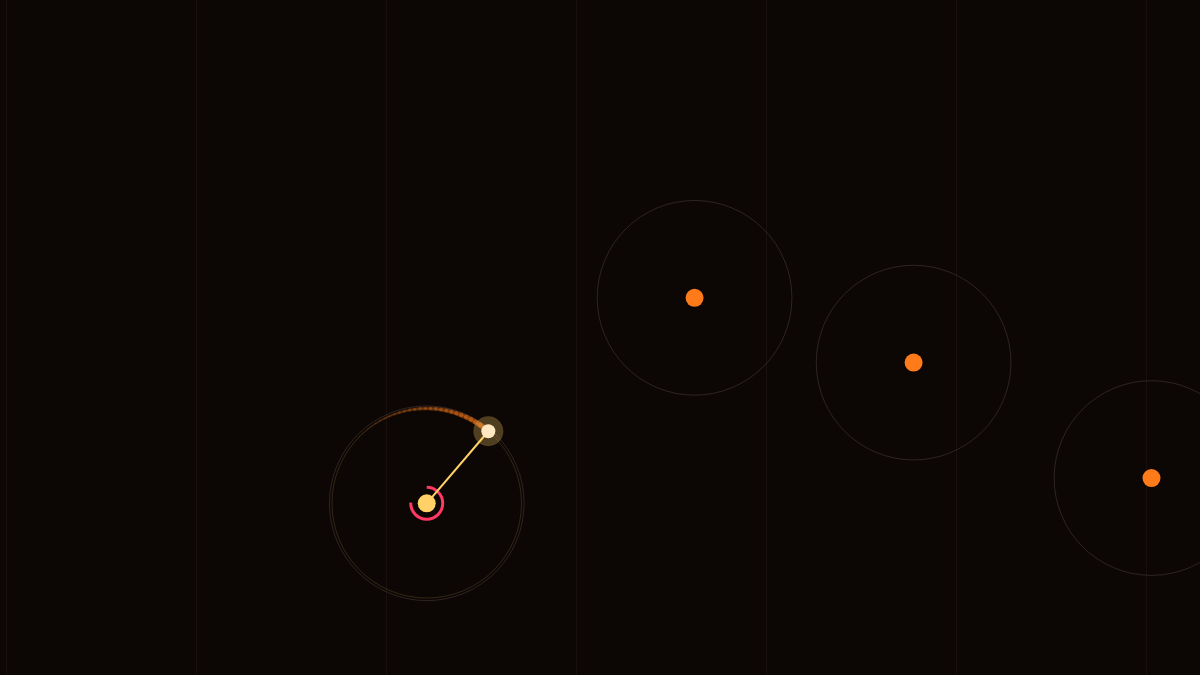
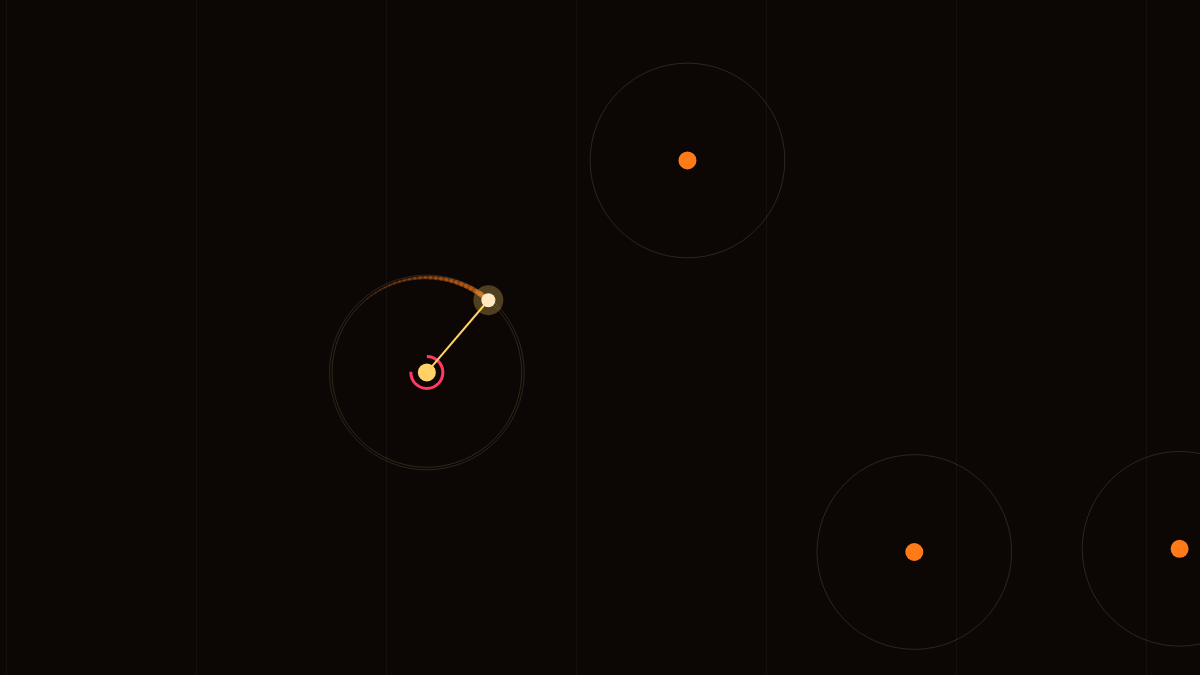
Fix seven bugs found reviewing the new games
A high-effort review of the diff turned up six real defects; fixing one of
them exposed a seventh, which the tightened test caught immediately.

- Nocturne spawned rings only LEAD (0.25s) before they landed but drew them
  against TRAVEL (1.9s), so they appeared ~88px from the target circle with a
  quarter-second of warning against a +/-0.125s hit window. Ring spawning is now
  a separate concern from note scheduling: rings exist for the whole travel
  window, and each schedules its own note LEAD ahead.
- Nocturne caught up on wall-clock time unbounded in a single frame, so a
  backgrounded tab returned to ~40 past-due rings at once, firing 40 oscillators
  and draining all three lives before a frame was drawn. It now re-anchors
  rather than catching up, with a visibilitychange handler doing the same.
- Fixing that exposed a negative canvas radius: step() only judges and culls
  rings while playing, so after a game over a leftover ring aged indefinitely
  while draw() kept shrinking it, and arc() throws on a negative radius.
- `elRules.hidden = true` was a no-op in all five new games — the author rule
  `.rules { display: flex }` outranks the UA `[hidden]` rule, so the game-over
  card showed the rules and the final score at once. `.gate[hidden]` and
  `.final[hidden]` were already worked around; `.rules[hidden]` was not.
- Refract saved progress one level behind on alternate clears: `index + 1 > best`
[…]

diff --git a/games-src/nocturne.html b/games-src/nocturne.html
@@ -197,6 +197,8 @@
     color: rgba(246, 240, 255, 0.76);
   }
 
+  .rules[hidden] { display: none; }
+
   .rules b { color: var(--pearl); font-weight: 700; }
 
   .dot {
@@ -448,6 +450,15 @@
     btnMute.setAttribute("aria-pressed", String(soundOn));
   });
 
+  // Coming back to a hidden tab should resume cleanly rather than resolve a
+  // backlog of beats the player never saw.
+  document.addEventListener("visibilitychange", function () {
+    if (document.hidden || state !== "play") return;
+    var now = clock();
+    rings = rings.filter(function (r) { return r.at > now; });
+    if (nextBeat < now) nextBeat = now + 1.0;
+  });
+
   /* ---------- sizing ---------- */
   function resize() {
     dpr = Math.min(window.devicePixelRatio || 1, 2);
@@ -518,13 +529,33 @@
     say("Over. Score " + score + ", best combo " + bestCombo + ".");
   }
 
+  // Rings must exist for the whole TRAVEL window, otherwise they appear a few
+  // pixels from the target circle and there is nothing to read. Their sound is a
+  // separate concern: it is scheduled only LEAD ahead, close to when it plays.
   function schedule() {
     var now = clock();
-    while (nextBeat < now + LEAD) {
-      rings.push({ at: nextBeat, hit: false, judged: false });
-      tickSound(nextBeat, beatIndex % 8, beatIndex % 4 === 0);
+
+    // A backgrounded tab keeps the clock running while rAF is stopped, so on
+    // return every missed beat would spawn at once — a wall of rings and
+    // oscillators that empties the lives bar before a frame is drawn. Re-anchor
+    // instead of catching up.
+    if (now - nextBeat > TRAVEL) {
+      nextBeat = now + 1.0;
+      rings = rings.filter(function (r) { return r.at > now; });
+    }
+
+    while (nextBeat < now + TRAVEL) {
+      rings.push({ at: nextBeat, hit: false, judged: false, sounded: false, step: beatIndex % 8, strong: beatIndex % 4 === 0 });
       beatIndex++;
       nextBeat += interval();
+    }
+
+    for (var i = 0; i < rings.length; i++) {
+      var r = rings[i];
+      if (!r.sounded && r.at - now <= LEAD) {
+        r.sounded = true;
+        tickSound(r.at, r.step, r.strong);
+      }
     }
   }
 
@@ -679,12 +710,17 @@
             : "rgba(246, 240, 255, " + (fade * 0.22).toFixed(3) + ")";
           ctx.lineWidth = r.hit ? 3 : 2;
           ctx.beginPath();
-          ctx.arc(cx, cy, targetR * (r.hit ? 1 - fade * 0.35 : 1 + (1 - fade) * 0.12), 0, Math.PI * 2);
+          ctx.arc(cx, cy, Math.max(0, targetR * (r.hit ? 1 - fade * 0.35 : 1 + (1 - fade) * 0.12)), 0, Math.PI * 2);
           ctx.stroke();
           continue;
         }
 
-        var rad = targetR + (1 - progress) * Math.max(W, H) * 0.52;
+        // Once the run ends, step() stops judging and culling rings, so a
+        // leftover ring keeps ageing while draw() runs. Its radius would go
+        // negative and canvas arc() throws. Drop anything past the hit window
+        // and clamp what remains.
+        if (remain < -GOOD) continue;
+        var rad = Math.max(0, targetR + (1 - progress) * Math.max(W, H) * 0.52);
         var near = Math.max(0, 1 - Math.abs(remain) / 0.5);
         ctx.strokeStyle = "rgba(255, 59, 107, " + (0.28 + near * 0.62).toFixed(3) + ")";
         ctx.lineWidth = 2 + near * 3;

diff --git a/public/games/nocturne/index.html b/public/games/nocturne/index.html
@@ -218,6 +218,8 @@
     color: rgba(246, 240, 255, 0.76);
   }
 
+  .rules[hidden] { display: none; }
+
   .rules b { color: var(--pearl); font-weight: 700; }
 
   .dot {
@@ -492,6 +494,15 @@
     btnMute.setAttribute("aria-pressed", String(soundOn));
   });
 
+  // Coming back to a hidden tab should resume cleanly rather than resolve a
+  // backlog of beats the player never saw.
+  document.addEventListener("visibilitychange", function () {
+    if (document.hidden || state !== "play") return;
+    var now = clock();
+    rings = rings.filter(function (r) { return r.at > now; });
+    if (nextBeat < now) nextBeat = now + 1.0;
+  });
+
   /* ---------- sizing ---------- */
   function resize() {
     dpr = Math.min(window.devicePixelRatio || 1, 2);
@@ -562,13 +573,33 @@
     say("Over. Score " + score + ", best combo " + bestCombo + ".");
   }
 
+  // Rings must exist for the whole TRAVEL window, otherwise they appear a few
+  // pixels from the target circle and there is nothing to read. Their sound is a
+  // separate concern: it is scheduled only LEAD ahead, close to when it plays.
   function schedule() {
     var now = clock();
-    while (nextBeat < now + LEAD) {
-      rings.push({ at: nextBeat, hit: false, judged: false });
-      tickSound(nextBeat, beatIndex % 8, beatIndex % 4 === 0);
+
+    // A backgrounded tab keeps the clock running while rAF is stopped, so on
+    // return every missed beat would spawn at once — a wall of rings and
+    // oscillators that empties the lives bar before a frame is drawn. Re-anchor
+    // instead of catching up.
+    if (now - nextBeat > TRAVEL) {
+      nextBeat = now + 1.0;
+      rings = rings.filter(function (r) { return r.at > now; });
+    }
+
+    while (nextBeat < now + TRAVEL) {
+      rings.push({ at: nextBeat, hit: false, judged: false, sounded: false, step: beatIndex % 8, strong: beatIndex % 4 === 0 });
       beatIndex++;
       nextBeat += interval();
+    }
+
+    for (var i = 0; i < rings.length; i++) {
+      var r = rings[i];
+      if (!r.sounded && r.at - now <= LEAD) {
+        r.sounded = true;
+        tickSound(r.at, r.step, r.strong);
+      }
     }
   }
 
@@ -723,12 +754,17 @@
             : "rgba(246, 240, 255, " + (fade * 0.22).toFixed(3) + ")";
           ctx.lineWidth = r.hit ? 3 : 2;
           ctx.beginPath();
-          ctx.arc(cx, cy, targetR * (r.hit ? 1 - fade * 0.35 : 1 + (1 - fade) * 0.12), 0, Math.PI * 2);
+          ctx.arc(cx, cy, Math.max(0, targetR * (r.hit ? 1 - fade * 0.35 : 1 + (1 - fade) * 0.12)), 0, Math.PI * 2);
           ctx.stroke();
           continue;
         }
 
-        var rad = targetR + (1 - progress) * Math.max(W, H) * 0.52;
+        // Once the run ends, step() stops judging and culling rings, so a
+        // leftover ring keeps ageing while draw() runs. Its radius would go
+        // negative and canvas arc() throws. Drop anything past the hit window
+        // and clamp what remains.
+        if (remain < -GOOD) continue;
+        var rad = Math.max(0, targetR + (1 - progress) * Math.max(W, H) * 0.52);
         var near = Math.max(0, 1 - Math.abs(remain) / 0.5);
         ctx.strokeStyle = "rgba(255, 59, 107, " + (0.28 + near * 0.62).toFixed(3) + ")";
         ctx.lineWidth = 2 + near * 3;

diff --git a/games-src/ballast.html b/games-src/ballast.html
@@ -215,6 +215,8 @@
     color: rgba(240, 244, 255, 0.76);
   }
 
+  .rules[hidden] { display: none; }
+
   .rules b { color: var(--bone); font-weight: 700; }
 
   .dot {
@@ -344,6 +346,7 @@
   var K = 0.05;            // torque -> resting angle
   var EASE = 4.2;          // how fast the beam settles toward that angle
   var ARM = 4;             // metres either side of the pivot
+  var COL_W = 0.55;        // metres per stacking column
 
   var reduce = window.matchMedia("(prefers-reduced-motion: reduce)").matches;
 
@@ -561,12 +564,14 @@
       var surface = Math.tan(angle) * c.x;
       if (c.y >= surface) {
         c.y = surface;
-        // crates dropped at nearly the same offset stack instead of overlapping
+        // Crates stack by column. Levels were previously derived from whichever
+        // neighbour happened to be within range, which chains transitively: a
+        // crate could inherit a high level from a neighbour while nothing sat
+        // directly beneath it, and render floating in mid-air.
+        var col = Math.round(c.x / COL_W);
         var lvl = 0;
-        for (var k = 0; k < landed.length; k++) {
-          if (Math.abs(landed[k].x - c.x) < 0.55) lvl = Math.max(lvl, landed[k].level + 1);
-        }
-        landed.push({ m: c.m, x: c.x, level: lvl });
+        for (var k = 0; k < landed.length; k++) if (landed[k].col === col) lvl++;
+        landed.push({ m: c.m, x: c.x, col: col, level: lvl });
         falling.splice(i, 1);
         torque += c.m * c.x;
         score++;
@@ -679,10 +684,10 @@
 
     for (i = 0; i < landed.length; i++) {
       p = beamPoint(landed[i].x);
-      // lift each crate by the stack beneath it, measured in its own size
+      // lift by exactly the crates below it in its own column
       var lift = 0;
       for (var q = 0; q < landed.length; q++) {
-        if (landed[q].level < landed[i].level && Math.abs(landed[q].x - landed[i].x) < 0.55) {
+        if (landed[q].col === landed[i].col && landed[q].level < landed[i].level) {
           lift += crateSize(landed[q].m);
         }
       }

diff --git a/public/games/ballast/index.html b/public/games/ballast/index.html
@@ -236,6 +236,8 @@
     color: rgba(240, 244, 255, 0.76);
   }
 
+  .rules[hidden] { display: none; }
+
   .rules b { color: var(--bone); font-weight: 700; }
 
   .dot {
@@ -388,6 +390,7 @@
   var K = 0.05;            // torque -> resting angle
   var EASE = 4.2;          // how fast the beam settles toward that angle
   var ARM = 4;             // metres either side of the pivot
+  var COL_W = 0.55;        // metres per stacking column
 
   var reduce = window.matchMedia("(prefers-reduced-motion: reduce)").matches;
 
@@ -605,12 +608,14 @@
       var surface = Math.tan(angle) * c.x;
       if (c.y >= surface) {
         c.y = surface;
-        // crates dropped at nearly the same offset stack instead of overlapping
+        // Crates stack by column. Levels were previously derived from whichever
+        // neighbour happened to be within range, which chains transitively: a
+        // crate could inherit a high level from a neighbour while nothing sat
+        // directly beneath it, and render floating in mid-air.
+        var col = Math.round(c.x / COL_W);
         var lvl = 0;
-        for (var k = 0; k < landed.length; k++) {
-          if (Math.abs(landed[k].x - c.x) < 0.55) lvl = Math.max(lvl, landed[k].level + 1);
-        }
-        landed.push({ m: c.m, x: c.x, level: lvl });
+        for (var k = 0; k < landed.length; k++) if (landed[k].col === col) lvl++;
+        landed.push({ m: c.m, x: c.x, col: col, level: lvl });
         falling.splice(i, 1);
         torque += c.m * c.x;
         score++;
@@ -723,10 +728,10 @@
 
     for (i = 0; i < landed.length; i++) {
       p = beamPoint(landed[i].x);
-      // lift each crate by the stack beneath it, measured in its own size
+      // lift by exactly the crates below it in its own column
       var lift = 0;
       for (var q = 0; q < landed.length; q++) {
-        if (landed[q].level < landed[i].level && Math.abs(landed[q].x - landed[i].x) < 0.55) {
+        if (landed[q].col === landed[i].col && landed[q].level < landed[i].level) {
           lift += crateSize(landed[q].m);
         }
       }

diff --git a/games-src/refract.html b/games-src/refract.html
@@ -180,6 +180,8 @@
     color: rgba(232, 244, 255, 0.76);
   }
 
+  .rules[hidden] { display: none; }
+
   .rules b { color: var(--ice); font-weight: 700; }
 
   .dot {
@@ -497,7 +499,11 @@
     solved = true;
     solveGlow = 1;
     advanceIn = 1.15;
-    if (index + 1 > best) { best = Math.min(index + 2, LEVELS.length); saveBest(); }
+    // `best` is the 1-based level to resume on, so clearing level N unlocks N+1.
+    // Comparing index+1 here would never exceed `best` on the furthest level,
+    // which silently dropped progress on alternate clears.
+    var unlocked = Math.min(index + 2, LEVELS.length);
+    if (unlocked > best) { best = unlocked; saveBest(); }
     chord();
     say("Level " + (index + 1) + " solved in " + turns + " turns.");
   }

diff --git a/public/games/refract/index.html b/public/games/refract/index.html
@@ -201,6 +201,8 @@
     color: rgba(232, 244, 255, 0.76);
   }
 
+  .rules[hidden] { display: none; }
+
   .rules b { color: var(--ice); font-weight: 700; }
 
   .dot {
@@ -541,7 +543,11 @@
     solved = true;
     solveGlow = 1;
     advanceIn = 1.15;
-    if (index + 1 > best) { best = Math.min(index + 2, LEVELS.length); saveBest(); }
+    // `best` is the 1-based level to resume on, so clearing level N unlocks N+1.
+    // Comparing index+1 here would never exceed `best` on the furthest level,
+    // which silently dropped progress on alternate clears.
+    var unlocked = Math.min(index + 2, LEVELS.length);
+    if (unlocked > best) { best = unlocked; saveBest(); }
     chord();
     say("Level " + (index + 1) + " solved in " + turns + " turns.");
   }

diff --git a/games-src/telegraph.html b/games-src/telegraph.html
@@ -190,6 +190,8 @@
     color: rgba(230, 248, 255, 0.76);
   }
 
+  .rules[hidden] { display: none; }
+
   .rules b { color: var(--frost); font-weight: 700; }
 
   .dot {

diff --git a/public/games/telegraph/index.html b/public/games/telegraph/index.html
@@ -211,6 +211,8 @@
     color: rgba(230, 248, 255, 0.76);
   }
 
+  .rules[hidden] { display: none; }
+
   .rules b { color: var(--frost); font-weight: 700; }
 
   .dot {

diff --git a/games-src/lantern.html b/games-src/lantern.html
@@ -183,6 +183,8 @@
     color: rgba(255, 246, 230, 0.76);
   }
 
+  .rules[hidden] { display: none; }
+
   .rules b { color: var(--wax); font-weight: 700; }
 
   .dot {

diff --git a/public/games/lantern/index.html b/public/games/lantern/index.html
@@ -204,6 +204,8 @@
     color: rgba(255, 246, 230, 0.76);
   }
 
+  .rules[hidden] { display: none; }
+
   .rules b { color: var(--wax); font-weight: 700; }
 
   .dot {
